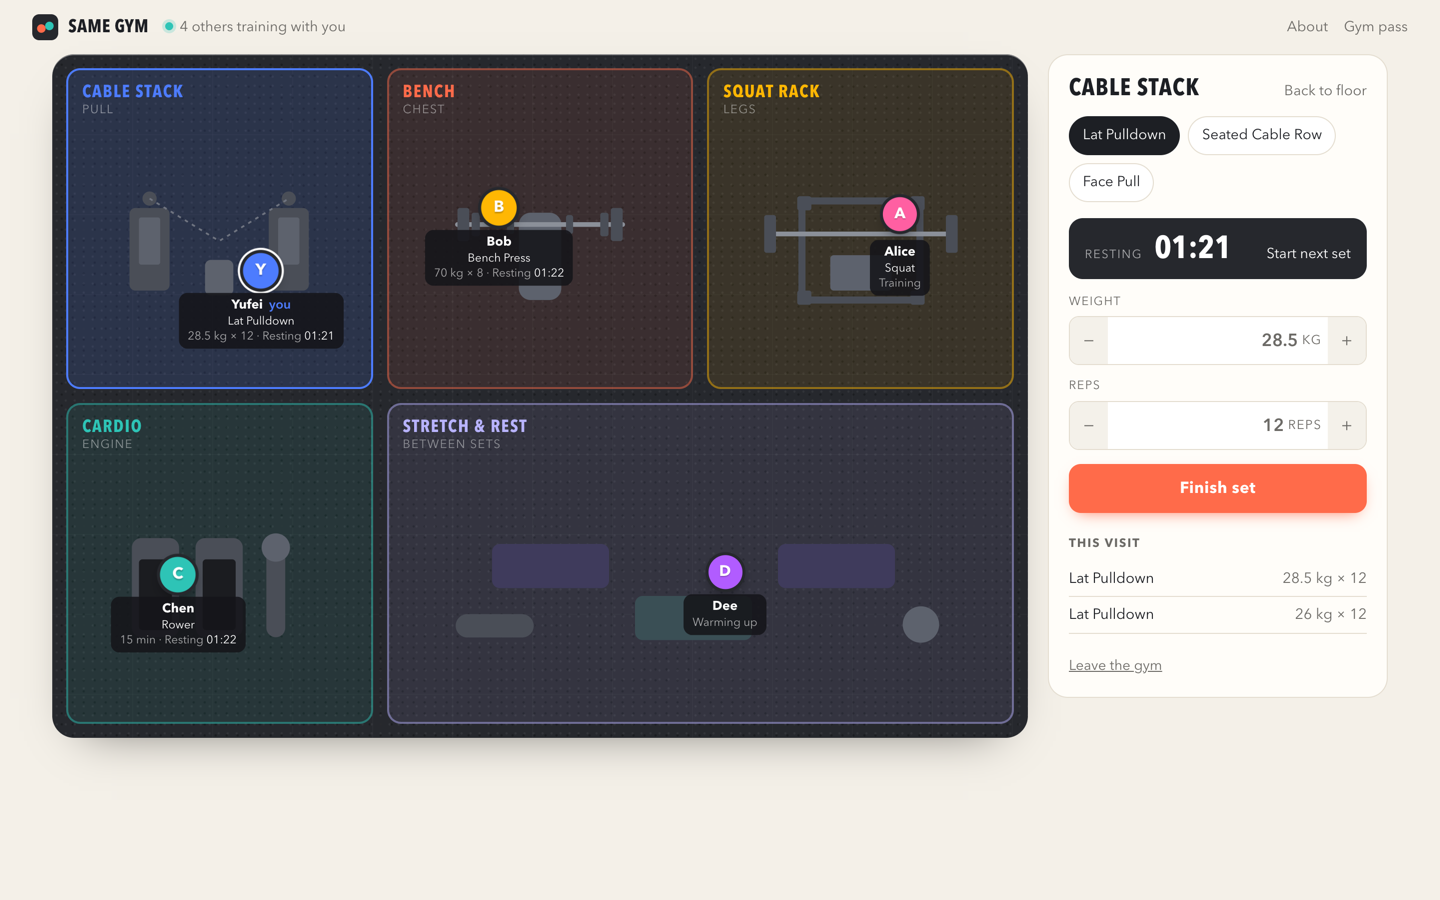
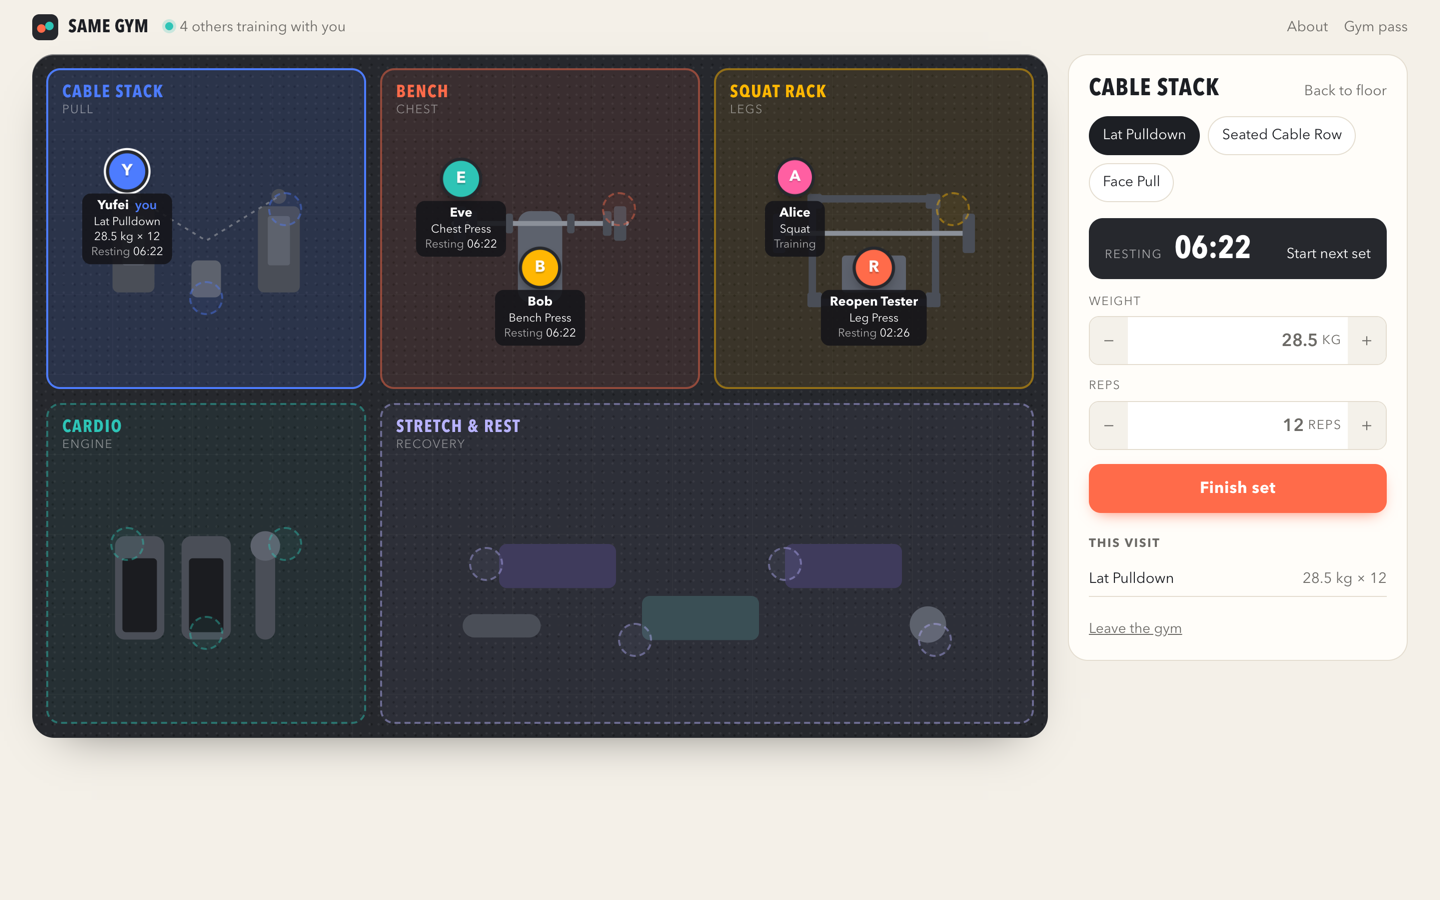
README matches the app as it stands; CLAUDE.md rules for numbers, spots, crit 9

diff --git a/README.md b/README.md
@@ -3,12 +3,13 @@
 > A good virtual gym should make individual training feel shared without turning exercise into a meeting, competition, or social feed.
 
 Same Gym is a small shared gym floor on the web. You walk in under a name and a
-colour, pick a station (the cable stack, the bench, the squat rack, cardio, or the
-stretch-and-rest area), and log your sets. Your dot stands at that station with what
-you're doing on its label, for example "Lat Pulldown · 28.5 kg × 12 · Resting 01:20".
-Anyone else in the gym stands at their own station in the same room.
+colour, then train at one of five areas: the cable stack, the bench, the squat rack,
+cardio, or stretch and rest. Your dot stands at that station with what you're doing
+on its label, for example "Lat Pulldown · Resting 01:20". Anyone else who is in
+stands at their own station in the same room. Empty places to stand are drawn as open
+spots, because the room is meant to hold several people.
 
-![The gym floor on desktop, seeded locally with five test people: one resting at the cable stack, others at the bench, squat rack, cardio and rest area](docs/floor.png)
+![The gym floor on desktop, seeded locally with test people at the cable stack, bench and squat rack, and open spots at every station](docs/floor.png)
 
 ## Who it's for
 
@@ -20,53 +21,54 @@ thousands of strangers.
 ## The opportunity
 
 Most fitness apps record what you did. A real gym also lets you feel who is training
-alongside you. In a gym you notice the person on the next bench, see that someone is
-resting between sets, and nobody turns it into a conversation. Apps that try to make
-training social tend to add feeds, kudos, leaderboards or video calls. Those make
-exercise into something to perform or to attend. Same Gym tries to keep just the
-part of the room that matters: presence.
+alongside you: the person on the next bench, someone resting between sets, and
+nobody making it a conversation. Social fitness apps add feeds, kudos, leaderboards
+or video calls, which turn exercise into something to perform or attend. Same Gym
+keeps only presence.
 
 ## What good means here
 
-1. **The room comes first.** You see other people where they're training, on the
-   floor itself, not in a list beside it. You know someone is there and what they're
-   doing, and nothing more is asked of you.
-2. **Logging stays out of the way.** Choose an exercise, enter a weight and reps,
-   finish the set. Your last numbers for each exercise are already filled in.
-3. **Your trace is still there.** Leave, refresh, or come back tomorrow on another
-   device with your gym pass, and you're still you, with your visits and sets.
-   A rest timer keeps running from the server's clock while you're away.
-4. **Nobody is ranked.** No scores, no streaks, no public history of your sets.
-   Other people see only your current exercise, your last set and whether you're
-   resting.
-5. **It works on a phone.** Phones are what people carry around a gym, so on a
-   phone the floor becomes a compact map and the logging panel sits underneath.
+1. **The room comes first.** Other people are shown on the floor, where they're
+   training, not in a list beside it. You can see that someone is there and what
+   they're doing, and nothing more is asked of you.
+2. **Logging is something you do in the room.** Tap a station, choose the exercise,
+   finish the set. Your last weight and reps for that exercise are already filled
+   in, and your dot moves to where you're training.
+3. **Your trace is still there.** Refresh, close the browser, or come back tomorrow
+   on another device with your gym pass, and you're still you, standing where you
+   were, with your sets. Rest timers run from the server's clock, so they keep
+   counting while you're away.
+4. **Nobody is ranked.** Other people see your exercise and whether you're training
+   or resting. They never see your weights or reps, and there are no scores, streaks
+   or public history. Your numbers are shown only to you.
+5. **It works on a phone.** Phones are what people carry around a gym, so on a phone
+   the floor becomes a two-column map, and the logging panel sits underneath at full
+   size.
 
 ## Why not a workout tracker
 
 A tracker's main view is your history. Here the main view is the present: who is in,
-where they're standing, who is between sets. Your history is kept, and it's there to
-bring you back to your spot, not to be shown off.
+where they're standing, and who is between sets. Your history is kept to bring you
+back to your spot, not to be charted or shown off.
 
 ## What I deliberately didn't build
 
-No feeds, comments, direct messages, followers, rankings or achievements. No voice
-or video. No AI coaching, workout plans or nutrition tracking. No password accounts:
-a name, a colour and a gym pass are enough to tell people apart.
+No feeds, comments, direct messages, followers, rankings or achievements. No voice or
+video. No AI coaching, workout plans, charts or nutrition tracking. No password
+accounts: a name, a colour and a gym pass are enough to tell people apart.
 
 ## Enforced and judged
 
-The checks in `spec/` enforce: a new identity persists and the pass brings back
-the same person; two people with the same name are still two people; a finished set
-is still there on the next request and puts you at the right station; bad set data
-is rejected and nothing is saved; the floor shows no one's pass; the page carries
-every station without any script running. These things are judged by people, not by
-tests: whether the room feels shared, whether the floor stays usable on a phone, and
-whether logging feels lightweight.
+Enforced by `spec/`: identity and sets survive across requests, and a pass
+recovers the same person; same-name people stay distinct; bad set data is rejected
+with nothing saved; the public floor never shows a pass, weights or reps; at
+1920×1080 and 390×844, labels stay inside their zones and logging stays usable.
+Judged by people: whether the room feels shared, and whether logging feels light.
 
-## Not yet
+## Where it is now
 
-Other people only appear when the page loads. Live updates are the next step.
+This is the first version. Other people appear on the floor when you load the page,
+not live as they move. Making the floor update in real time is the next step.
 
 ## What I read or looked at
 

diff --git a/CLAUDE.md b/CLAUDE.md
@@ -14,11 +14,17 @@ quietly change the product.
 - **Spatial presence before social networking.** Other people appear on the
   floor, at the station where they're training. Never in a sidebar list, a
   roster or a feed.
-- **No permanent social feed.** Nothing that scrolls through other people's past
-  activity. Others see only your current state: exercise, last set, resting or
-  training.
-- **No rankings, scores, streaks, badges or leaderboards** unless I explicitly ask
-  for them. Two people's numbers are never compared.
+- **The floor shows the present, not a history.** There's no feed or scrollback of
+  anyone's activity. Others see only who you are, which station, which exercise,
+  and whether you're training or resting.
+- **Numbers are private.** Weights and reps belong to their owner: they appear in
+  your own panel and on your own label, never in `/api/floor` or on anyone
+  else's view. No rankings, scores, streaks, badges or leaderboards unless I
+  explicitly ask.
+- **The space has to show its capacity.** Every station draws open spots, and
+  people take a spot rather than a random point, so an empty gym still reads as a
+  room for several people and labels don't pile up. A new station or exercise
+  needs a place on the floor; don't add exercises that have no clear station.
 - **No messaging, comments, voice or video.** If co-presence ever needs a signal
   between people, it is a lightweight, ephemeral reaction, and only when I ask.
 - **Don't add a feature because fitness apps usually have one.** That rules out
@@ -35,9 +41,22 @@ quietly change the product.
   shrinking the desktop map until it's unreadable: the floor reflows to a
   two-column map with the panel underneath. Check both widths before calling UI
   work done.
-- **Keep it at the size of a university project.** It's sized for a handful of
-  people at once, not thousands. Prefer the smallest change that keeps the idea
-  coherent.
+- **Design for a handful of people at once**, about one class: five stations with a
+  few spots each. Don't build for scale the room can't show.
+
+## Real-time (crit 9)
+
+Real-time is still to come: right now other people appear only when the page
+loads. When it arrives:
+
+- Broadcast from the four action functions in `src/gym.ts`, sending the same public
+  shape as `/api/floor` (never a pass, never numbers).
+- Other people's changes should move their dot on the floor, not post a
+  notification or add a list item.
+- Choose the transport deliberately and record why in a decision record in
+  `docs/decisions/`. Server-sent events need no dependency; WebSockets would.
+- Until then, don't describe the app as real-time anywhere: not in `README.md`, the
+  UI copy or `PROCESS.md`.
 
 ## Engineering rules
 
@@ -66,7 +85,9 @@ quietly change the product.
 ## Before calling something done
 
 - Start the app (`pnpm start`) and run `pnpm check`. Both must be green.
-- For UI changes, look at it at desktop and at 390px wide.
+- For UI changes, look at it at 1920×1080 and 390×844. `spec/viewports.test.ts`
+  catches labels spilling out of zones, cramped inputs and sideways scroll, but
+  only a person can judge whether it still feels like a room.
 - A promise the README makes that can be tested belongs in `spec/`. When you add
   or change one, add or change its check.
 - When I correct the same mistake twice, the fix goes here or into `spec/`, not
